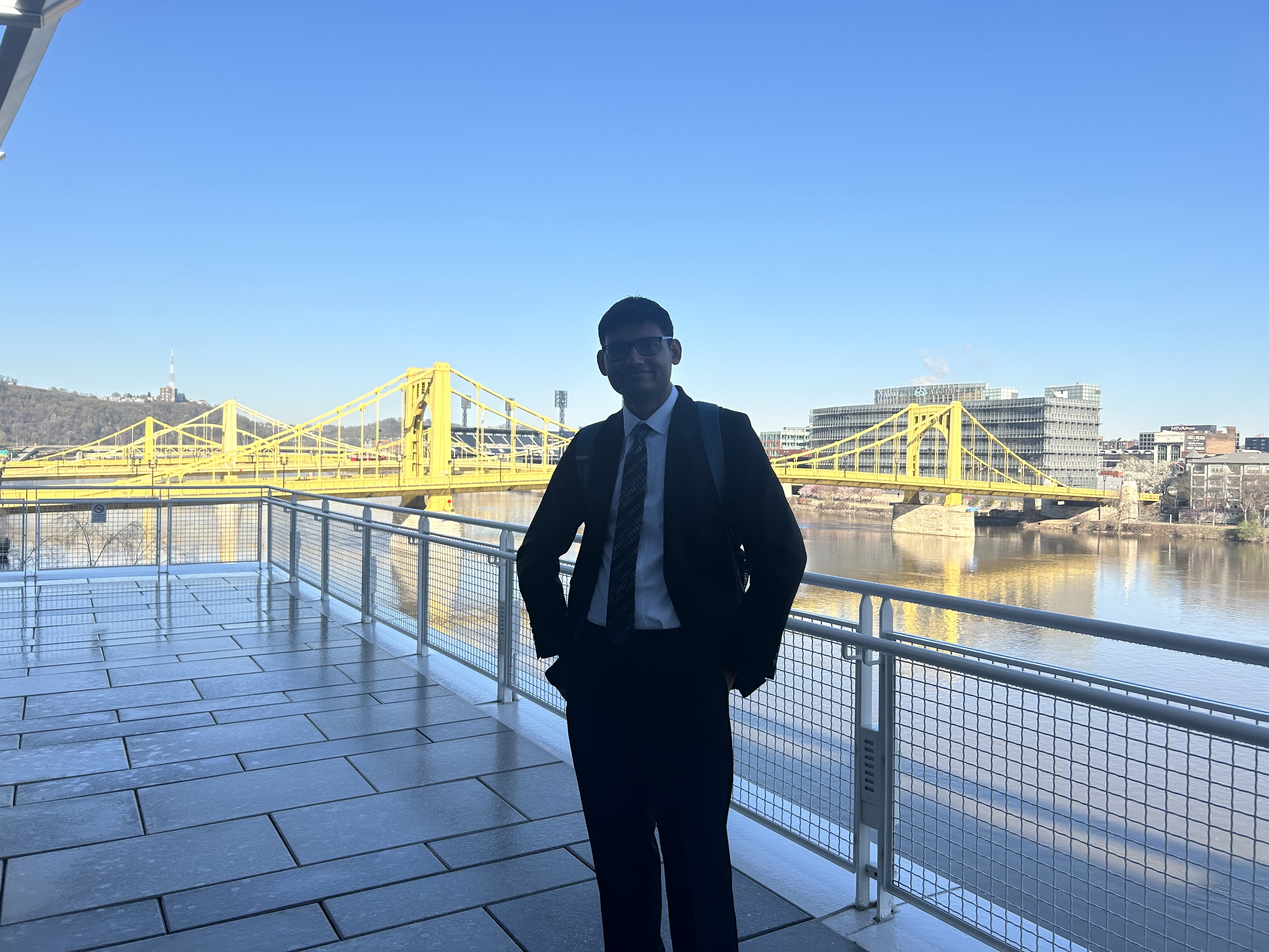
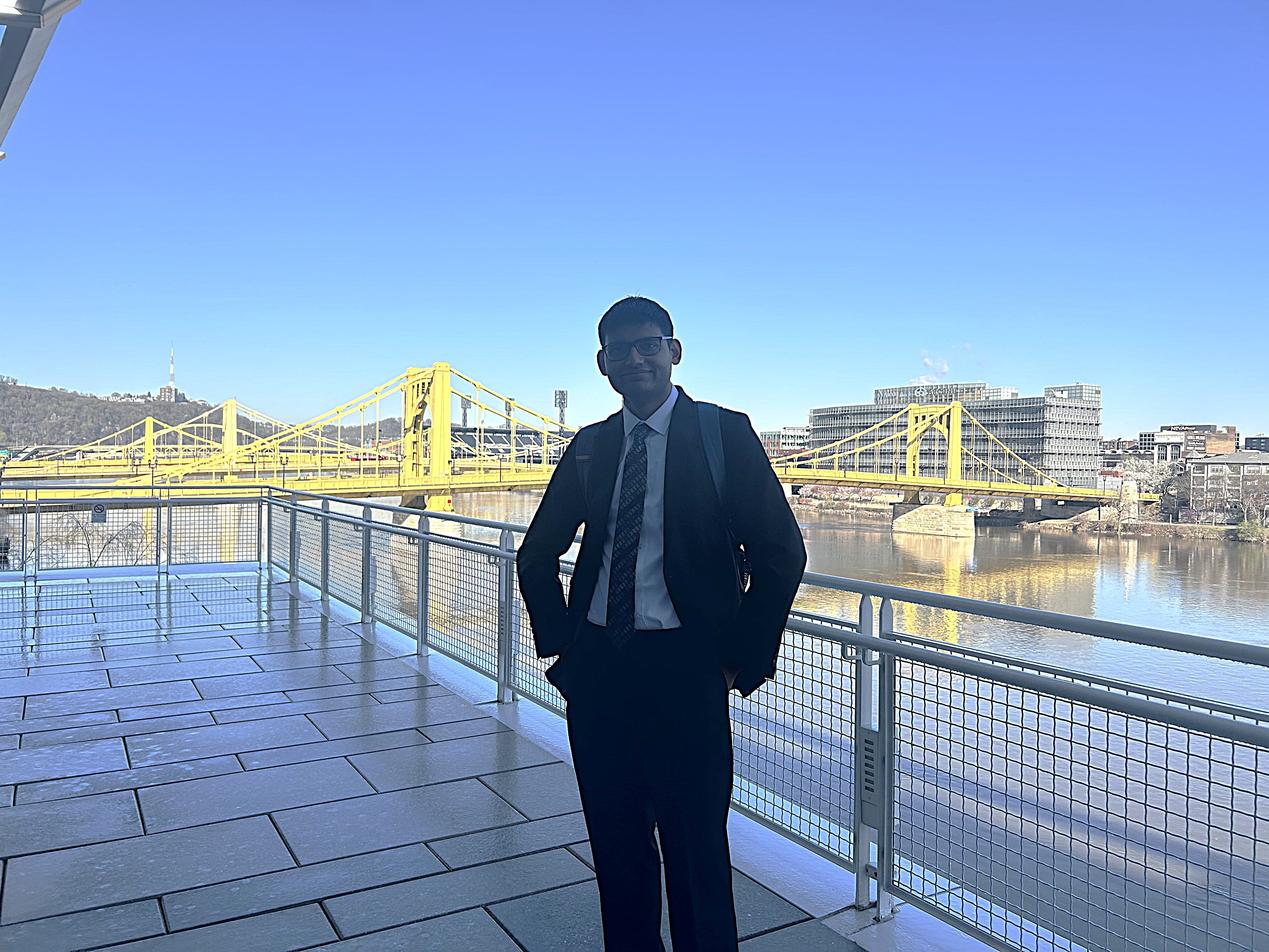
profile photo

diff --git a/index.html b/index.html
@@ -5,10 +5,9 @@ layout: home
 <!DOCTYPE html>
 
 <div style="text-align: center; margin: 40px 0;">
-    <img src="/assets/images/profile.jpg" alt="Savar Sinha" style="width: 100px; height: 100px; border-radius: 50%; 
+    <img src="/assets/images/profile.jpg" alt="Savar Sinha" style="width: 250px; height: 250px; border-radius: 50%; 
             object-fit: cover; 
-            object-position: 50% 40%; /* Adjust these percentages to zoom */
-            transform: scale(2.5);
+            object-position: 60% 60%; /* Adjust these percentages to zoom */
             border: 4px solid white; 
             box-shadow: 0 4px 15px rgba(0,0,0,0.1);">
 </div>
